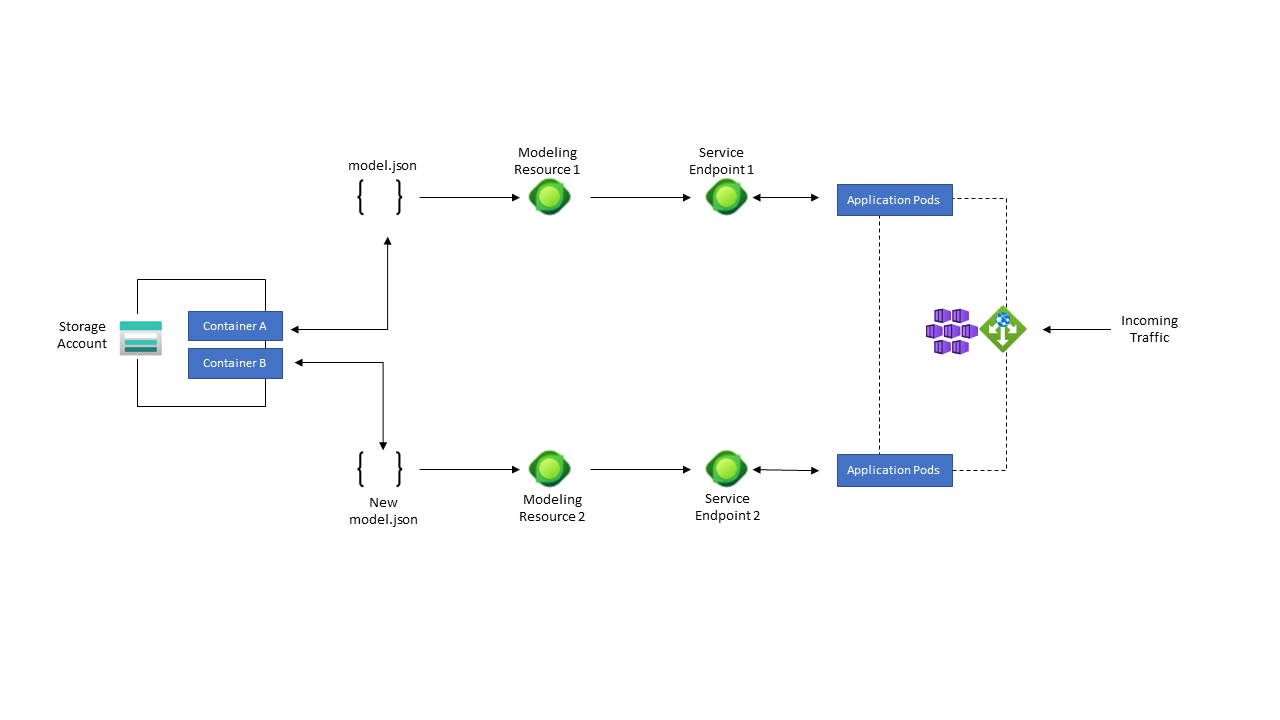
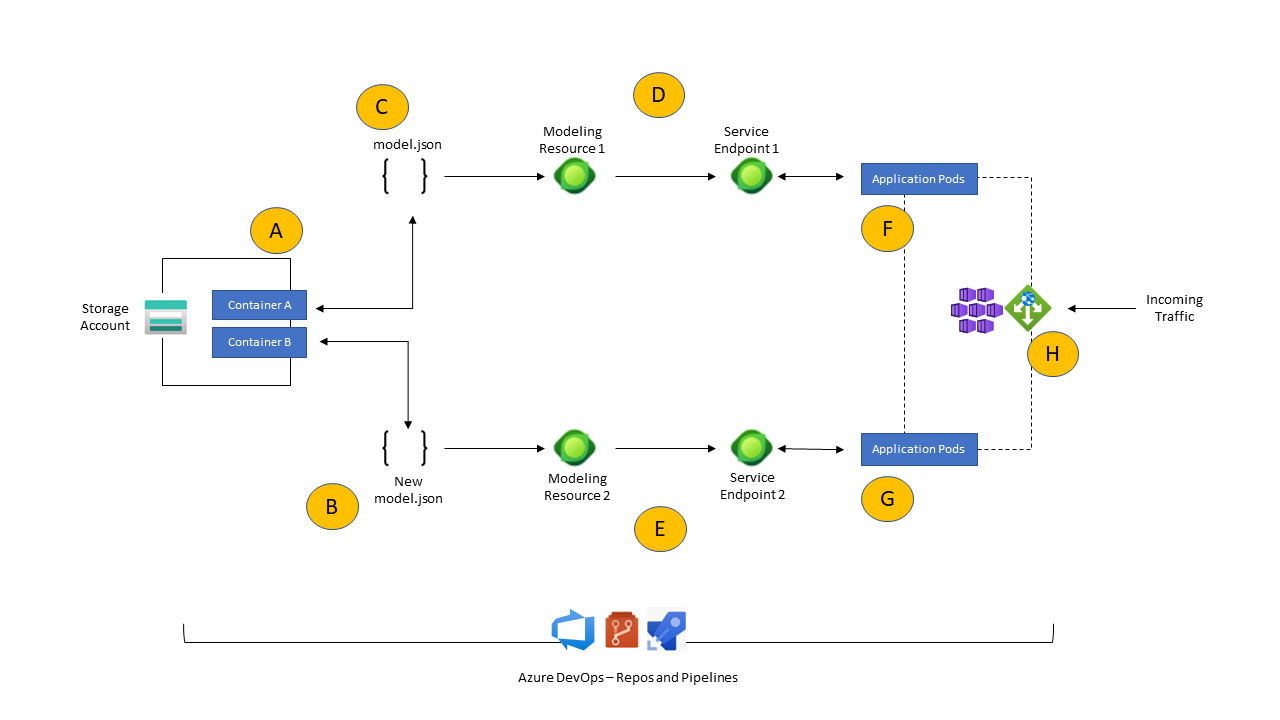
added diagrams and commentary to documentation for ir

diff --git a/retail/solutions/ir/README.md b/retail/solutions/ir/README.md
@@ -124,8 +124,6 @@ An enterprise-scale deployment of IR will consist of multiple instances of Model
 
 > Note: Adoption and implementation of DMA is not mandatory for deploying IR and its complimentary services, however DMA architecture and recommendations have been built for at-scale deployment encompassing principles of security, governance and self-serve. Hence, we are using DMA as for reference implementation.
 
-***
-
 ***One or multiple IR and ADLS instances?***
 
 From a deployment perspective, we recommend having separate instances of IR and ADLS for each environment (production, dev, test). Having separate environments will allow you to experiment and optimize the recommendations without risking any downtime or impact to production environment.
@@ -137,50 +135,65 @@ There maybe reasons where you may instantiate more than one instance in an envir
 - Security and/or compliance
 - Co-location of resources
 
-***
-
-***Deployment recommendations***
-
-- **Azure billing and Azure Active Directory tenant**  
+**Azure billing and Azure Active Directory tenant**  
 There are no IR specific deployment recommendations from EA and Billing perspective; however, we recommend customers to review the considerations and follow the recommendations for ESLZ available [here](https://docs.microsoft.com/en-us/azure/cloud-adoption-framework/ready/landing-zone/design-area/azure-billing-ad-tenant).
 
-- **Identity and Access Management**
+**Identity and Access Management**
 
-    IR supports AAD and Azure RBAC. For an enterprise deployment, we recommend having separate instances of IR for each environment (production, development etc.). Within each instance of IR, you may choose to use one or more instances of ADLS, Modeling Instance (MI) and/or Service Endpoint (SE).
+IR supports AAD and Azure RBAC. For an enterprise deployment, we recommend having separate instances of IR for each environment (production, development etc.). Within each instance of IR, you may choose to use one or more instances of ADLS, Modeling Instance (MI) and/or Service Endpoint (SE).
 
-    There are 2 principles we follow:
-  - Principle of least privilege
-  - Segregation of duties
+There are 2 principles which apply here:
+
+- Principle of least privilege
+- Segregation of duties
+
+There are two types of access planes - control plane and data plane.
+
+For **control plane** access, we recommend leveraging Azure RBAC. The control plane strategy outlined below applies to IR and it's dependent services.
+
+For each instance of ADLS, MI and SE, following AAD groups must be created and then users, Managed Identities or Service Principals must be added to these groups. The rationale behind this is that each application which consumes data from IR will most likely have different lifecycle; security requirements; possibly different teams involved etc. Having separate user groups aligned per application per environment will enable you to administer and treat each dependent application differently.
+
+- mi_\<app>\_\<env>\_readers
+- se_\<app>\_\<env>\_readers
+- adls_\<app>\_\<env>\_\<app>\_readers
+- mi_\<app>\_\<env>\_\<region>\_\<app>\_writers
+- se_\<app>\_\<env>\_\<region>\_\<app>\_writers
+- adls_\<app>\_\<env>\_\<region>\_\<app>\_writers
+- mi_\<app>\_\<env>\_\<region>\_\<app>\_admins
+- se_\<app>\_\<env>\_\<region>\_\<app>\_admins
+- adls_\<app>\_\<env>\_\<region>\_\<app>\_admins  
+
+For Azure RBAC, unless you have specific security and access control requirements, we recommend using built-in roles for readers, writers and admins.
+
+For automation, we recommend using AAD Managed Identity (MI) and assigning them appropriate Azure RBAC to for operational tasks. It's common to use multiple MI to control the blast radius and assign MI to each individual instance of IR.
+
+For **data plane** access, we have apps which consume data from IR using Service Endpoints. This is enabled by `Endpoint Authentication` feature of IR which is configured at IR Account level. It is backed by Azure AD (AAD).
+
+The figure below shows the hierarchy of an IR account and the access flow from external application perspective. External applications (A) will use AAD-backed identity to get an access token from Azure Identity Platform. The access token is then used to access the Service Endpoints (D) and Modeling Resources (E).
+
+Endpoint Authentication basically binds an AAD SPN to an IR Account for data plane access. Even though we recommend using separate AAD-backed SPN for each external application accessing IR Account, it's worth highlighting that once Endpoint Authentication is configured for a given SPN, it can perform GET and POST actions on all of the Service Endpoints and Modeling Resources belonging to that IR Account.
+
+![Endpoint Authentication](./media/ir_authc_access_apps.png)
+
+The default behaviour of Endpoint Authentication assignment belonging to an IR account is that the assigned user, by default, gets read access to all Modeling and Service API endpoints as shown in the figure above. There is no feature to change this behaviour.
+
+> Note: It's not possible to modify this assignment through Azure RBAC as this binding is done at the backend.
+
+There are a few strategies to address the risk associated with access to all endpoints belonging to an IR Account:
+
+- Instantiate a separate IR Account per external application. Basically, you adopt the model where there is 1:1 mapping between an external app (consumer) and an IR Account.
+- 
 
 
-  ***Recommendations***
 
-    For each instance of ADLS, MI and SE, following AAD groups must be created and then users, Managed Identities or Service Principals must be added to these groups. The rationale behind this is that each application which consumes data from IR will most likely have different lifecycle; security requirements; possibly different teams involved etc. Having separate user groups aligned per application per environment will enable you to administer and treat each dependent application differently.
-
-  - mi_\<app>\_\<env>\_readers
-  - se_\<app>\_\<env>\_readers
-  - adls_\<app>\_\<env>\_\<app>\_readers
-  - mi_\<app>\_\<env>\_\<region>\_\<app>\_writers
-  - se_\<app>\_\<env>\_\<region>\_\<app>\_writers
-  - adls_\<app>\_\<env>\_\<region>\_\<app>\_writers
-  - mi_\<app>\_\<env>\_\<region>\_\<app>\_admins
-  - se_\<app>\_\<env>\_\<region>\_\<app>\_admins
-  - adls_\<app>\_\<env>\_\<region>\_\<app>\_admins  
-
-  For Azure RBAC, unless you have specific security and access control requirements, we recommend using built-in roles for readers, writers and admins.
-
-  For automation, we recommend using AAD Managed Identity (MI) and assigning them appropriate Azure RBAC to for operational tasks. It's common to use multiple MI to control the blast radius and assign MI to each individual instance of IR.
-
-  > Note: For external apps which will interact with IR Service Endpoint for reading the recommendations, we recommend using separate [AAD backed app principal](https://docs.microsoft.com/en-us/azure/active-directory/develop/howto-create-service-principal-portal) for each individual app. This will allow you to control access granted to individual apps and change privileges without impacting other applications.
-  
-  > Note: As with any resource on Azure, we recommend using principle of least privilege and enforce segregation of duties with Azure RBAC to meet security requirements of your organization. The best practices are published on [Microsoft Docs](https://docs.microsoft.com/en-us/azure/role-based-access-control/best-practices#only-grant-the-access-users-need).
+---
 
 - **DevOps and Automation**
 
     As with other Azure services, we recommend using IaC approach to deploying and managing IR Account and its complementary services such as ADLS.
 
     > Note: At the time of writing this document, IR doesn't ship with Bicep support, however this will be available in future.
-    
+
     > Note: IR, just like any other Azure-based resource, supports ARM however, at the time of writing of this documentation, the `Export template` experience from Azure Portal is not supported.
 
     ***Model Management and MLOps***
@@ -199,24 +212,40 @@ There are no IR specific deployment recommendations from EA and Billing perspect
     - Model training
 
   ***Release Management***
+
+  This section focus on release management in context of Intelligent Recommendations service. IR offers following levers to fine tune results and experiment with the recommendations:
+
+  - [Flexible filtering](https://docs.microsoft.com/en-us/industry/retail/intelligent-recommendations/fine-tune-results)
+  - [Data Contracts and entities defined in](https://docs.microsoft.com/en-us/industry/retail/intelligent-recommendations/data-contract#data-contracts) `model.json`
+
+  > Note: We are not focusing on release management in context of applications which are consuming output of IR as there is plenty of documentation out in public domain which talks to those themes.
+
+  There are fundamental building blocks and capabilities which enable various release management strategies such as Canary; Blue-Green deployments; and A/B testing. These are:
+  - Ability of an IR account to support multiple Modeling resources and Service Endpoints.
+  - DevOps tooling such as Azure DevOps (ADO) and its features Pipelines and Repos.
+  - Runtime environment such as AKS along with networking capabilities which supports balancing traffic between multiple application endpoints.
+
+  > Note: In addition to parameters in `model.json`, customers can also experiment with different types of Modeling Endpoints (Basic, Standard or Premium) and adopt deployment strategies discussed below.
   
-  An IR account can have multiple Modeling and Service Endpoints. For same set of inputs, customers can experiment with attributes in `model.json` to test recommendations. The results produced by the two versions of model.json can then be served through separate Service Endpoints. This enables advanced deployment strategies discussed here.
+  ![Modeling Tiers](./media/modeling_endpoint_tiers.png)
 
-  > Note: Customers can also experiment with different types of Modeling Endpoints (Basic, Standard or Premium) and adopt deployment strategies discussed below. ![Modeling Tiers](./media/modeling_endpoint_tiers.png)
+  Using the setup depicted in the figure shown below, customers can build and deploy complex release strategies.
+  
+  An application (shown as F) has > 1 instances hosted on a runtime environment (H) which supports layer 7 load balancing. Each application instance is connecting to two separate Service Endpoints (D and E). The overarching idea is that each Service Endpoint is using different Modeling Reource each of which is driven by parameters declared in `model.json` files (C). Driving the recommendations are datasets hosted inside two separate Azure storage containers (A).
 
-  - *Canary deployment* strategy means deploying new versions of an application next to stable, production versions. You can then see how the canary version compares to the baseline, before promoting or rejecting the deployment. In context of IR, customers can instantiate a single instance of IR Account but with separate instances of Modeling and Service Endpoints to test out recommendation results generated by IR.
+  ![deployment strategy](./media/deployment_strategy.png)
 
-  - A *Blue-Green deployment* release strategy means new version of the software to a limited set of users and expanding that user base gradually until everyone is using the new version. If at any time the new version is causing issues, all the users can be instantly* redirected to the old version. In context of IR, 
+  Customers can experiment with input datasets and variables defined in `model.json` to fine tune the recommendations. This IR deployment model combined with capabilities of application runtime environment such as AKS (H) enables customers to implement release management strategies such as Canary; Blue-Green deployments; and A/B Testing.
 
-![deployment strategy](./media/deployment_strategy.png)
+  > Note: IR supports multiple endpoints, however one would require external capabilities such as network load balancing (such as Azure Application Gateway) and application runtime environment to enable end-to-end release management scenarios discussed here.
 
 - **Network Topology and Connectivity**
 
-    At the time of writing this guidance, IR didn't support Azure Private Endpoints. The APIs published by IR for Modeling and Service Endpoints are routable over the public internet, however a key is required to access them.
+    At the time of writing this guidance, IR didn't support Azure Private Endpoints. The APIs published by IR for Modeling Resources and Service Endpoints are routable over the public internet, however a key is required to access them which provides another layer of security.
 
     To secure the deployment and to keep the surface area of services with addresses routable over the public internet to a minimum, there are a few strategies available.
-
   - ADLS account must have Private Endpoint enabled so that it's not accessible over the internet.
+  - Separate Azure Storage account which is accessible by
   - Separate containers per external app will ensure that the blast radius is restricted to a container in case of a breach.
 
 - **Operations and Monitoring**
